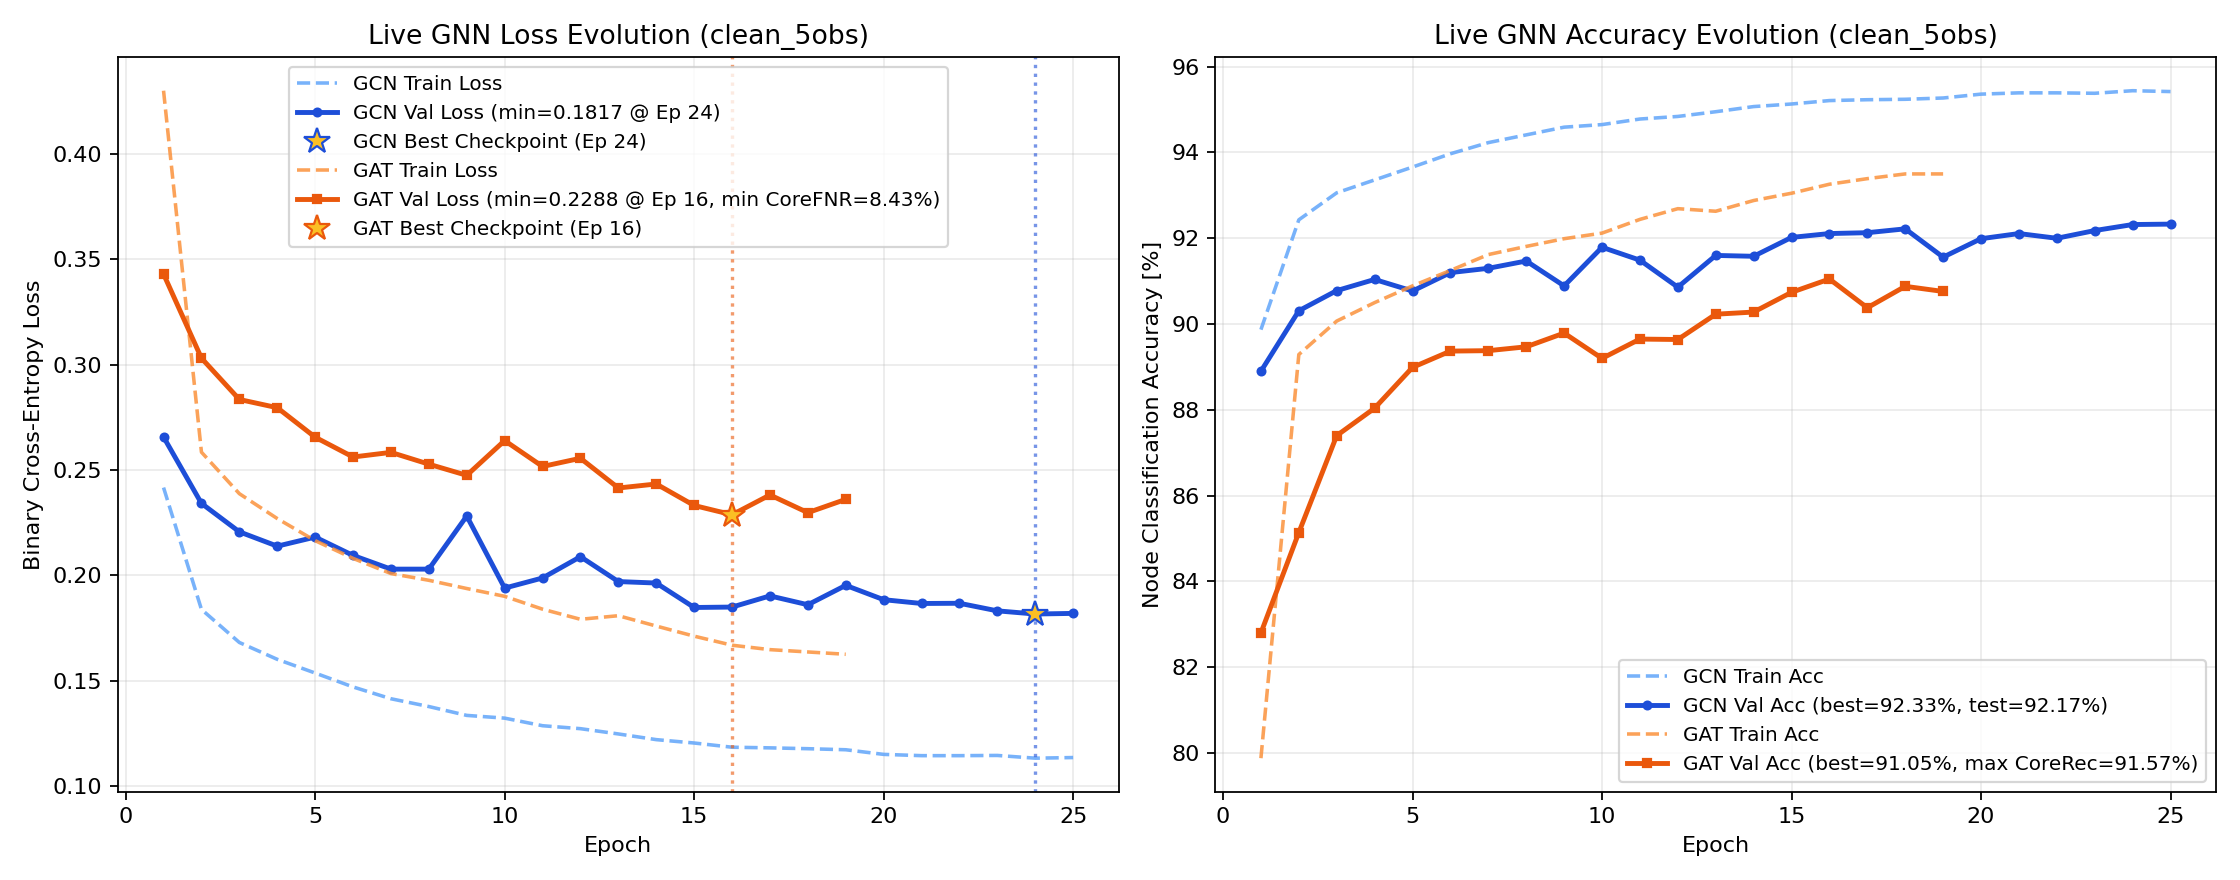
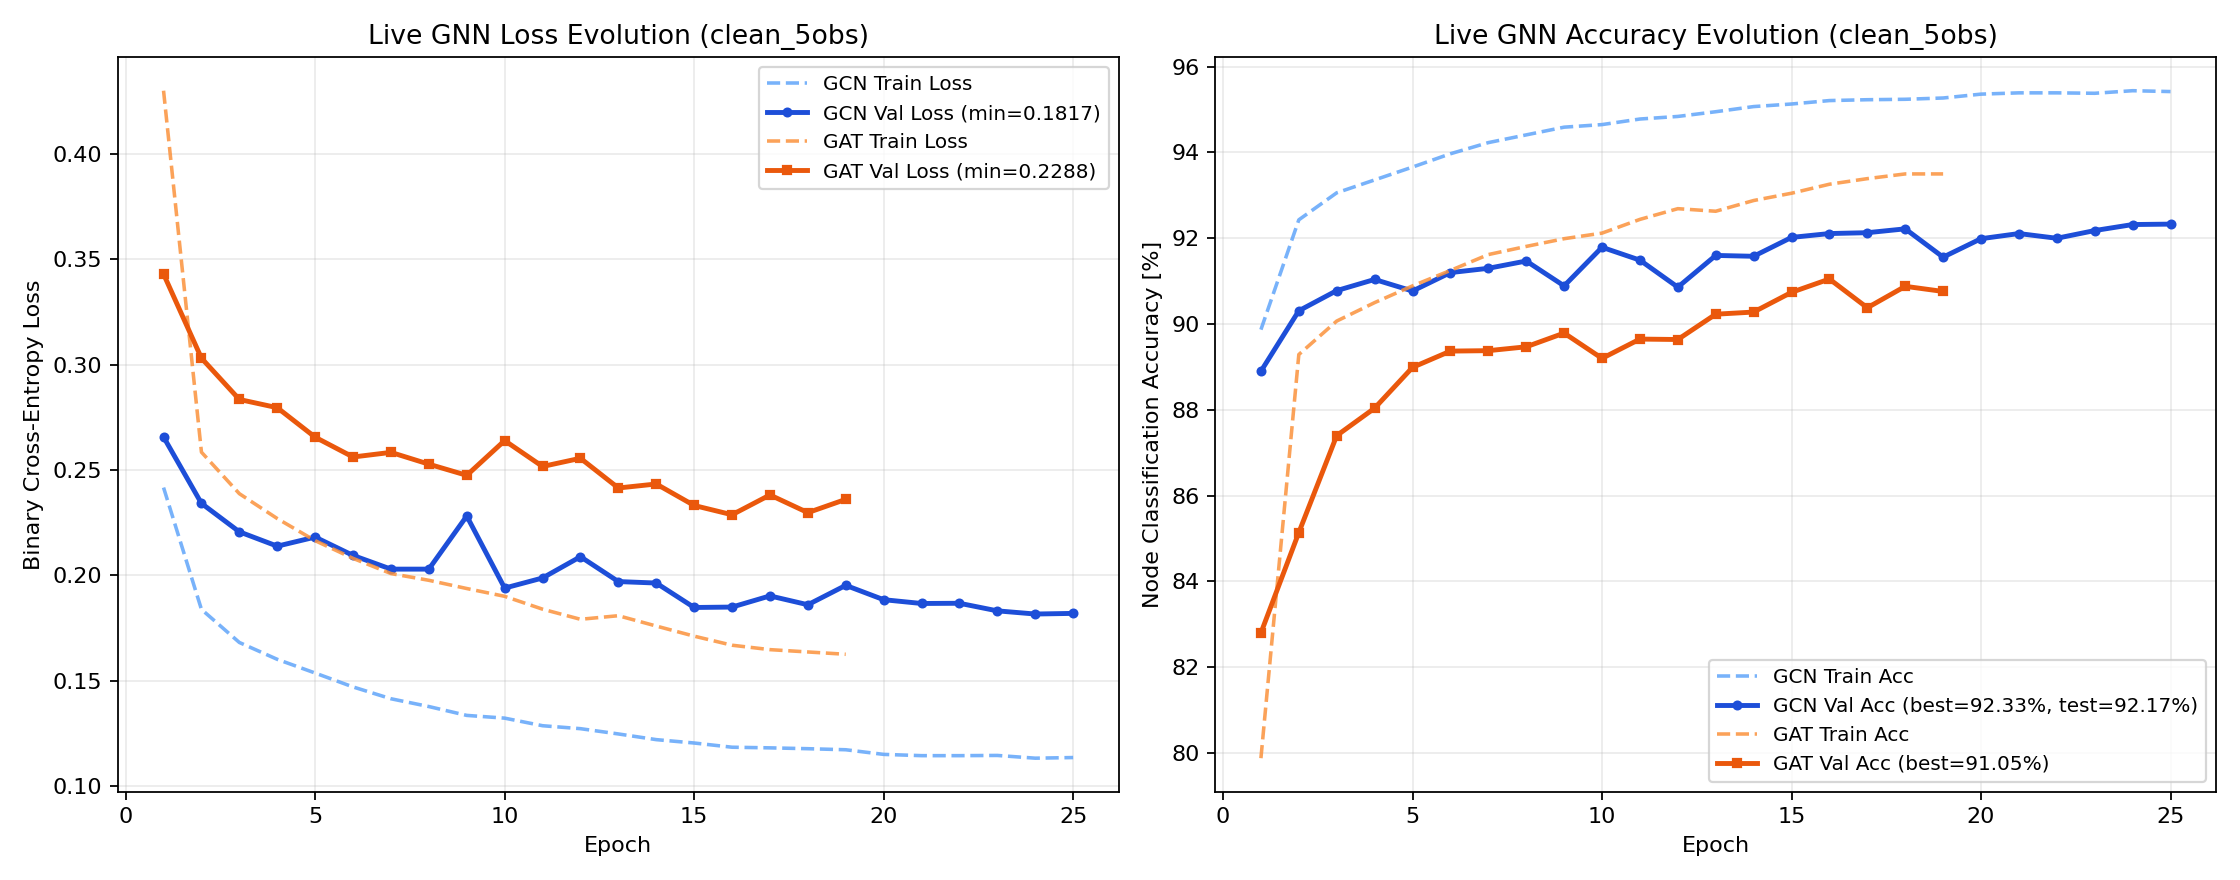
Update Study 2 live status and figures (2026-11-13 05:22)

diff --git a/LIVE_STATUS.md b/LIVE_STATUS.md
@@ -1,44 +1,30 @@
 # Live Pipeline Status on Jed
 
 ```text
-[2026-11-13 05:19:21] Study 2 Pipeline Status on Jed
+[2026-11-13 05:22:58] Study 2 Pipeline Status on Jed
 - Step 1 (Plummer ICs): 81 / 81 ready
 - Step 2 (SWIFT Runs): 81 / 81 completed (101 snapshots)
 - Step 3 (Observables): Labels=81/81 | Clean=81/81 | GaiaNoisy=81/81
 - Step 4 (5D Graphs): Clean=81/81 | GaiaNoisy=81/81
 - Step 5/6 Live GNN Training Progress:
-  * clean_5obs/training_metrics_gat_clean.log: Ep 019 | Train 0.1626 (93.50%) | Val 0.2361 (90.76%, Best=91.05%) | CoreFNR: 10.14% (min=8.43%) | Test=In progress
+  * clean_5obs/training_metrics_gat_clean.log: Ep 019 | Train 0.1626 (93.50%) | Val 0.2361 (90.76%, Best=91.05%) | Test=In progress
   * clean_5obs/training_metrics_gcn_clean.log: Ep 025 | Train 0.1136 (95.42%) | Val 0.1820 (92.33%, Best=92.33%) | Test=92.17%
   * legacy/clean_5obs_static_5rot/training_metrics_gcn_clean.log: Ep 025 | Train 0.1136 (95.42%) | Val 0.1820 (92.33%, Best=92.33%) | Test=92.17%
-- Saved Model Checkpoints (.pth): 8 mirrored in GNN-jed/trained_models/study2/weights/
 
 SLURM Queue:
 JOBID  PARTITION                   NAME   ST       TIME  NODES NODELIST(REASON)
       41146836   academic Study2_Step7_GCNStocha   PD       0:00      2 (Dependency)
 41146835_[0-4%   academic      Study2_Step6_4Obs   PD       0:00      2 (Dependency)
-      41146834   academic   Study2_Step5_Train81    R   14:33:36      2 jst[317,320]
+      41146834   academic   Study2_Step5_Train81    R   14:37:31      2 jst[317,320]
 ```
 
 ## Live Neural Network Training Metrics
 
-| Experiment | Architecture | Latest Epoch | Train Loss | Train Acc | Val Loss | Val Acc | Best Val Acc | Core FNR | Test Acc | Test F1 |
-| :--- | :---: | :---: | :---: | :---: | :---: | :---: | :---: | :---: | :---: | :---: |
-| `clean_5obs` | **GAT** | 19 | 0.1626 | 93.50% | 0.2361 | 90.76% | **91.05%** | 8.43% (val min) | **In progress** | - |
-| `clean_5obs` | **GCN** | 25 | 0.1136 | 95.42% | 0.1820 | 92.33% | **92.33%** | - | **92.17%** | 0.8886 |
-| `clean_5obs_static_5rot` | **GCN** | 25 | 0.1136 | 95.42% | 0.1820 | 92.33% | **92.33%** | - | **92.17%** | 0.8886 |
-
-## Saved Model Weights (`.pth` Checkpoints)
-
-| Checkpoint | Size | Experiment Path | Central Archive Mirror |
-| :--- | :---: | :--- | :--- |
-| `best_gat_clean.pth` | 361.2 KB | `GNN-jed/trained_models/study2/clean_5obs/best_gat_clean.pth` | `GNN-jed/trained_models/study2/weights/best_gat_clean.pth` |
-| `best_gat_clean_ep18_backup.pth` | 361.2 KB | `GNN-jed/trained_models/study2/clean_5obs/best_gat_clean_ep18_backup.pth` | `GNN-jed/trained_models/study2/weights/best_gat_clean_ep18_backup.pth` |
-| `best_gcn_clean.pth` | 120.0 KB | `GNN-jed/trained_models/study2/clean_5obs/best_gcn_clean.pth` | `GNN-jed/trained_models/study2/weights/best_gcn_clean.pth` |
-| `best_gat_clean_ep18_backup.pth` | 361.2 KB | `GNN-jed/trained_models/study2/legacy/clean_5obs_static_5rot/best_gat_clean_ep18_backup.pth` | `GNN-jed/trained_models/study2/weights/best_gat_clean_ep18_backup.pth` |
-| `best_gcn_clean.pth` | 120.0 KB | `GNN-jed/trained_models/study2/legacy/clean_5obs_static_5rot/best_gcn_clean.pth` | `GNN-jed/trained_models/study2/weights/best_gcn_clean.pth` |
-| `best_gat_clean.pth` | 361.2 KB | `GNN-jed/trained_models/study2/legacy/weights/best_gat_clean.pth` | `GNN-jed/trained_models/study2/weights/best_gat_clean.pth` |
-| `best_gat_clean_ep18_backup.pth` | 361.2 KB | `GNN-jed/trained_models/study2/legacy/weights/best_gat_clean_ep18_backup.pth` | `GNN-jed/trained_models/study2/weights/best_gat_clean_ep18_backup.pth` |
-| `best_gcn_clean.pth` | 120.0 KB | `GNN-jed/trained_models/study2/legacy/weights/best_gcn_clean.pth` | `GNN-jed/trained_models/study2/weights/best_gcn_clean.pth` |
+| Experiment | Architecture | Latest Epoch | Train Loss | Train Acc | Val Loss | Val Acc | Best Val Acc | Test Acc | Test F1 |
+| :--- | :---: | :---: | :---: | :---: | :---: | :---: | :---: | :---: | :---: |
+| `clean_5obs` | **GAT** | 19 | 0.1626 | 93.50% | 0.2361 | 90.76% | **91.05%** | **In progress** | - |
+| `clean_5obs` | **GCN** | 25 | 0.1136 | 95.42% | 0.1820 | 92.33% | **92.33%** | **92.17%** | 0.8886 |
+| `clean_5obs_static_5rot` | **GCN** | 25 | 0.1136 | 95.42% | 0.1820 | 92.33% | **92.33%** | **92.17%** | 0.8886 |
 
 ## Real-Time GNN Learning Curves (Loss & Accuracy Evolution)
 
